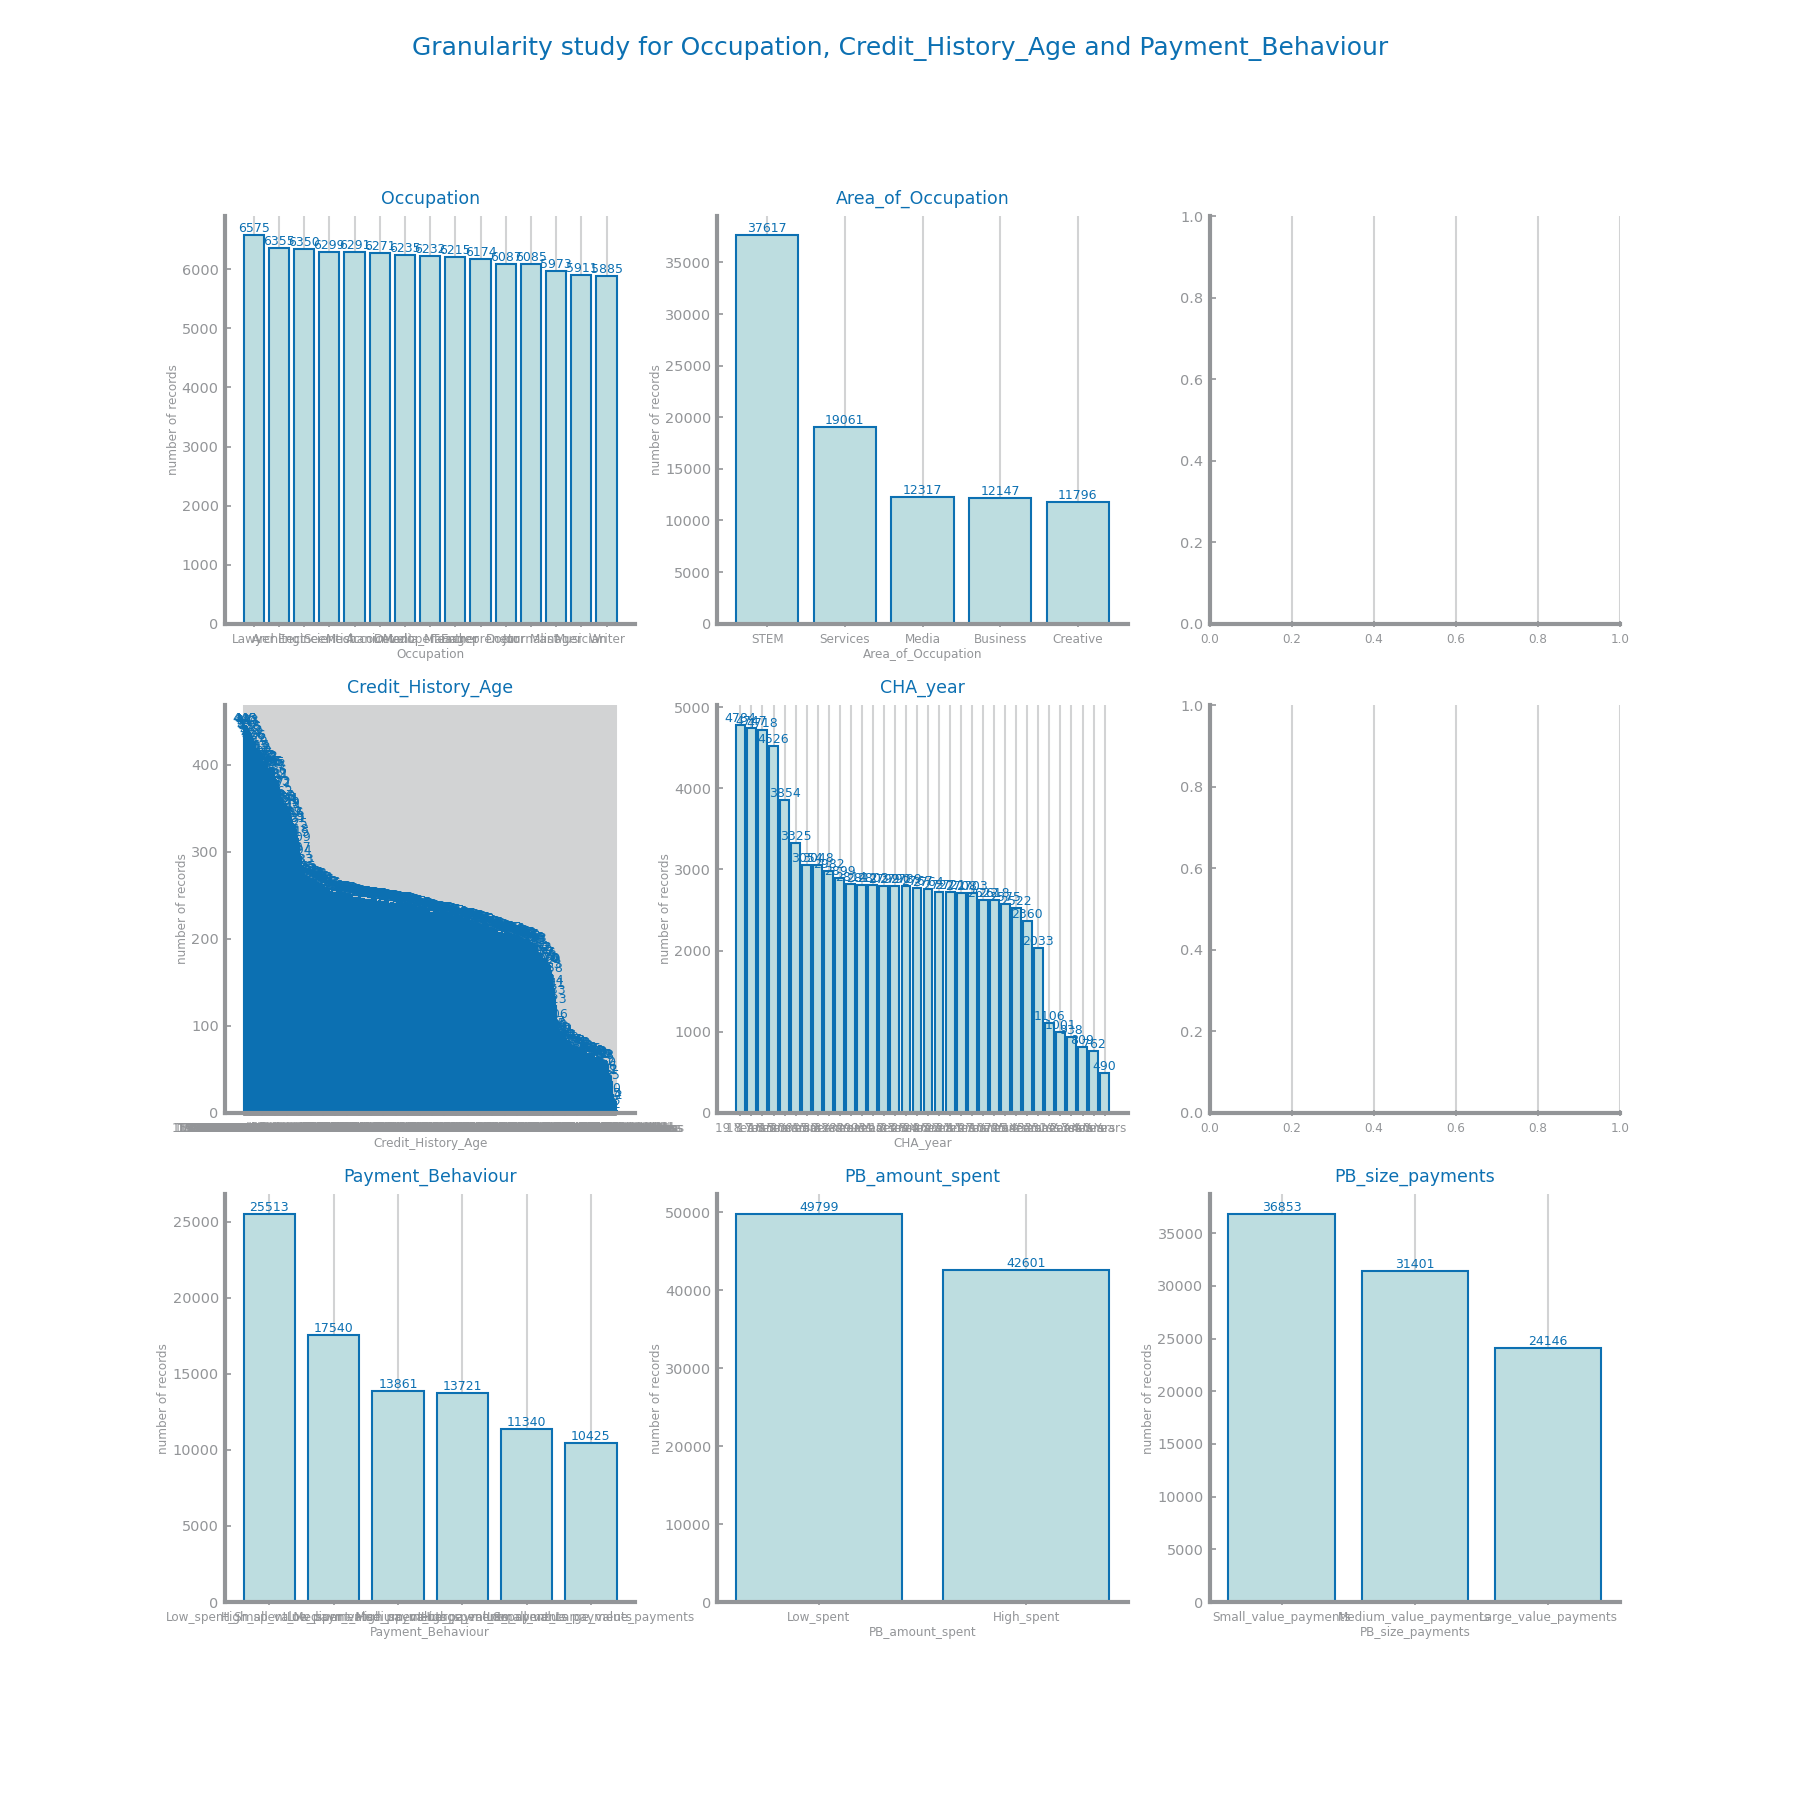
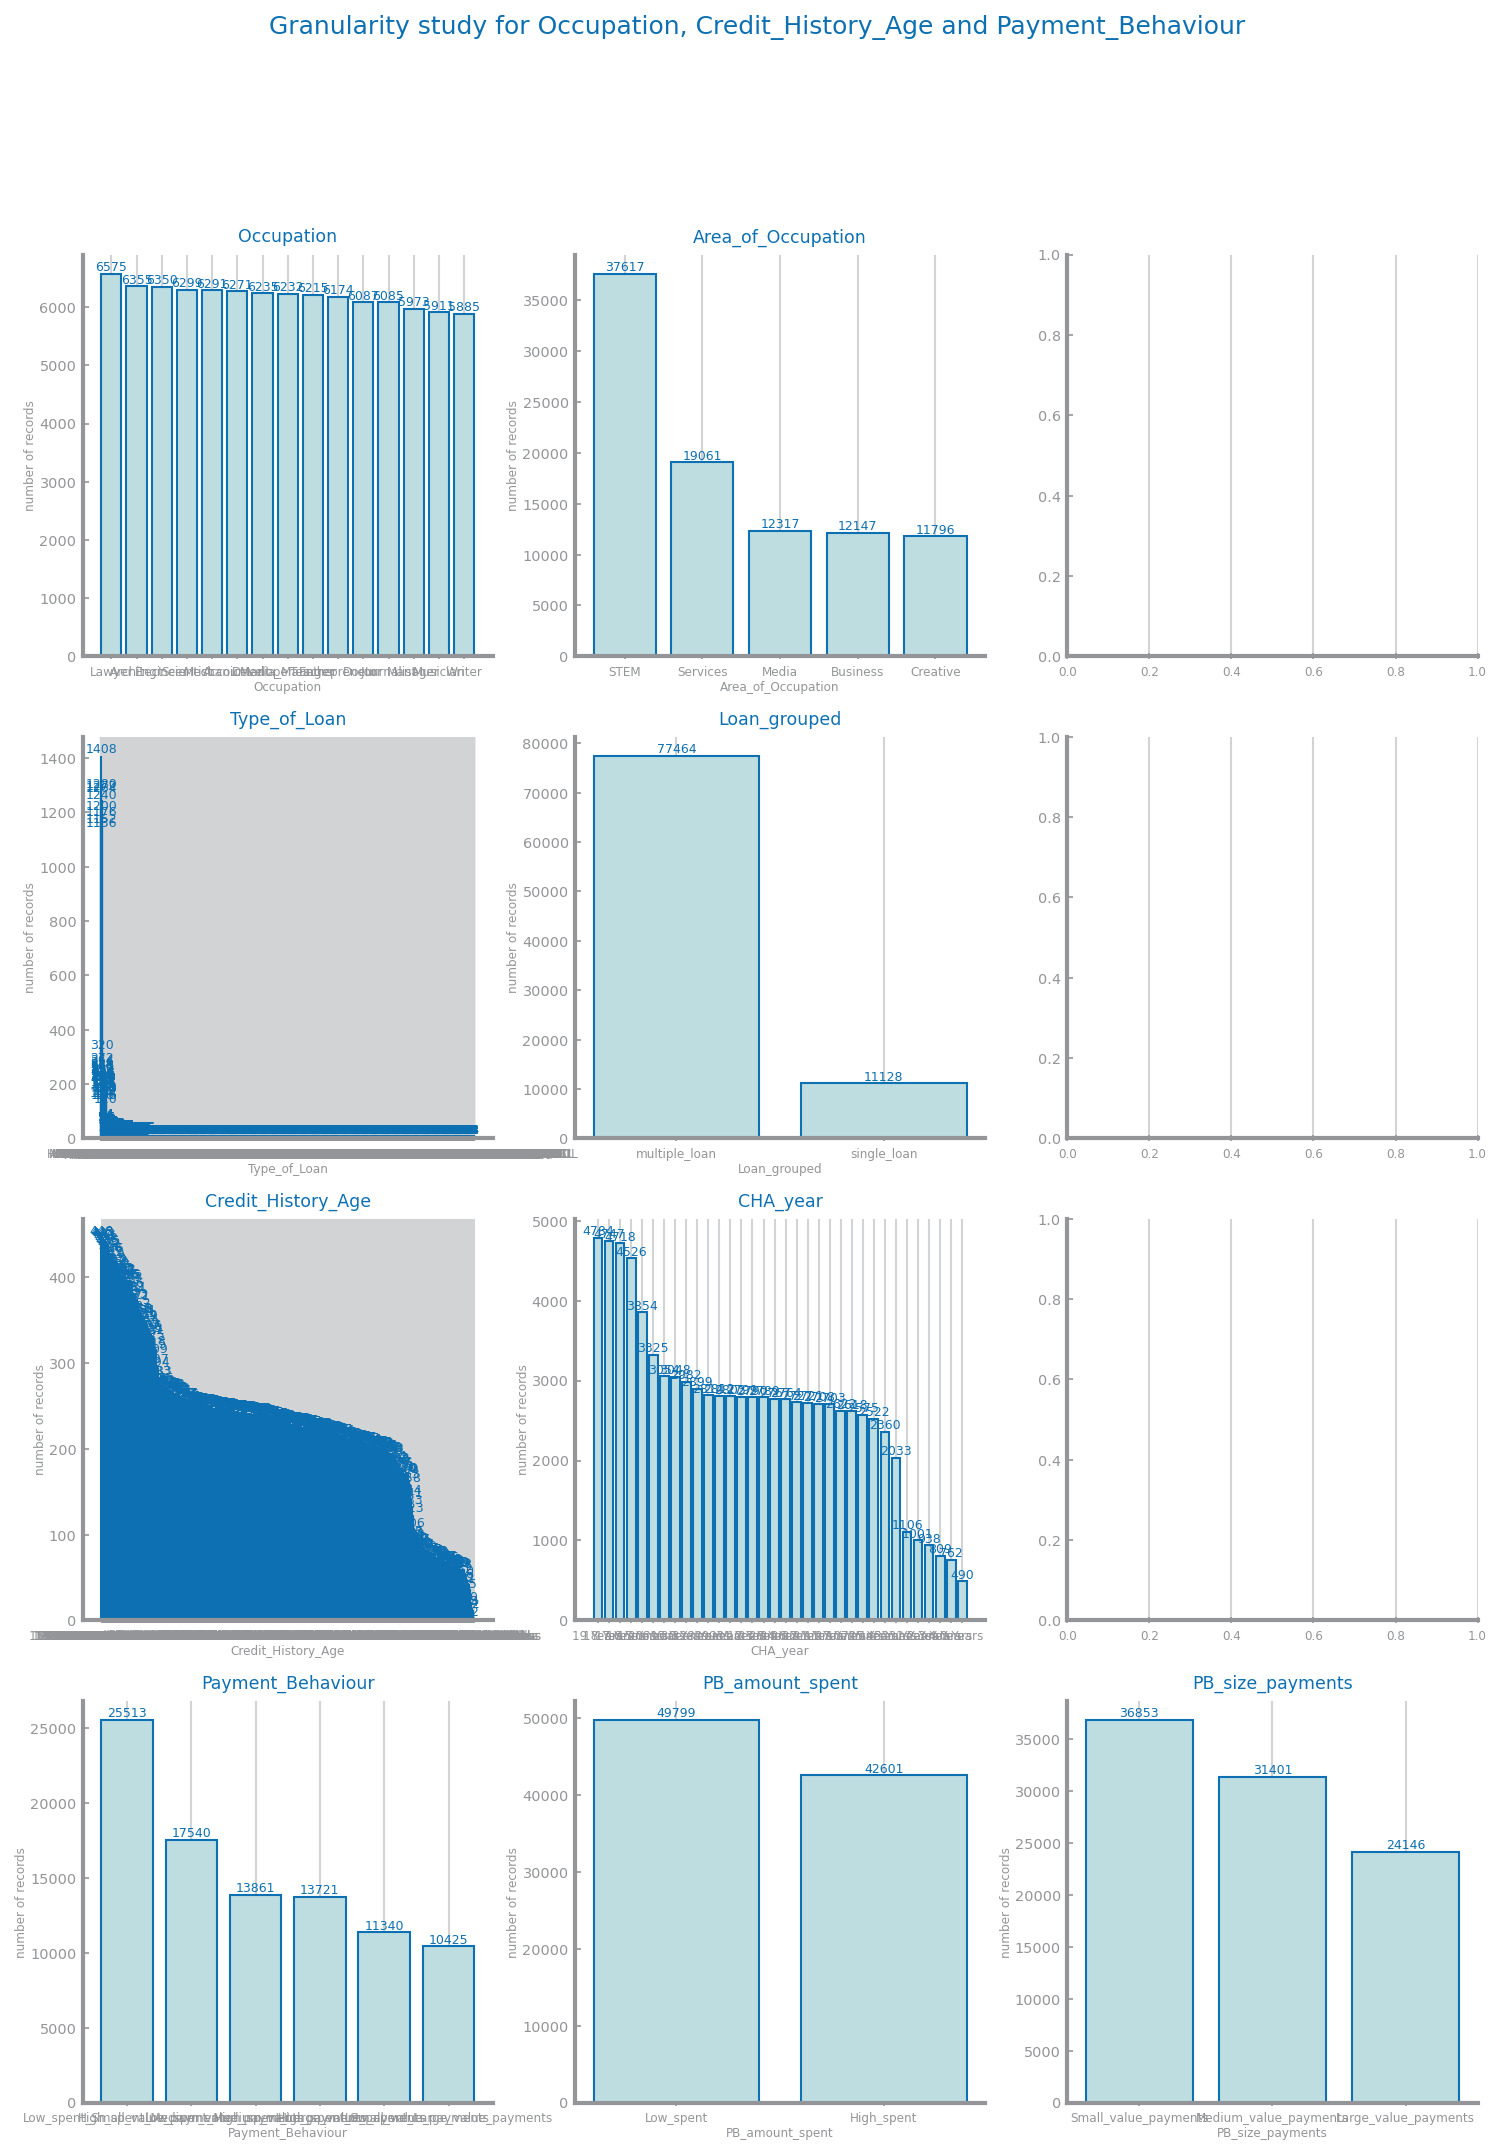
feat: add histograms for num vars and hists for symb vars. add more to granularity

diff --git a/dataset2/lab1.py b/dataset2/lab1.py
@@ -146,6 +146,8 @@ from dslabs_functions import plot_bar_chart, HEIGHT, get_variable_types, define_
 def analyse_property_granularity(data: DataFrame, axs: ndarray, j: int, vars: list[str]) -> ndarray:
     for i in range(len(vars)):
         counts: Series[int] = data[vars[i]].value_counts()
+        if vars[i] == "Type_of_Loan":
+                counts.index = list(map(abreviate_type_of_loan, counts.index.to_list()))
         plot_bar_chart(
             counts.index.to_list(),
             counts.to_list(),
@@ -160,7 +162,7 @@ def analyse_property_granularity(data: DataFrame, axs: ndarray, j: int, vars: li
 def get_symbolic_nonBinary_variables(data: DataFrame) -> list:
     symbolic: list = get_variable_types(data)["symbolic"]
     remove_list: list = (["ID", "Customer_ID", "Name", "SSN", "Age"] + 
-                         ["Month", "CreditMix", "Payment_of_Min_Amount", "Type_of_Loan"])
+                         ["Month", "CreditMix", "Payment_of_Min_Amount"])
     res = []
     for el in symbolic:
         if el not in remove_list:
@@ -207,23 +209,27 @@ def pb_size_payments_gran_data(pb: str) -> str:
     else:
         return nan
     
-#def type_of_loan_gran_data(data: DataFrame):
-#    res = []
-#    for entry in data["Type_of_Loan"].values:
-#        lst = entry.split(", ")
-#        for el in lst:
+def type_of_loan_gran_data(tl: str) -> str:
+    if type(tl) == str:
+        if "," in tl:
+            return "multiple_loan"
+        else:
+            return "single_loan"
+    else:
+        return nan
             
 
 def symbolic_variables_granularity(data: DataFrame, file_tag: str):
+    variables = get_symbolic_nonBinary_variables(data)
     cols: int = 3
-    rows: int = 3
+    rows: int = len(variables)
     fig: Figure
     axs: ndarray
     fig, axs = subplots(rows, cols, figsize=(cols * HEIGHT, rows * HEIGHT), squeeze=False)
     fig.suptitle(f"Granularity study for Occupation, Credit_History_Age and Payment_Behaviour")
     varia: list[str]
     i: int = 0
-    for var in get_symbolic_nonBinary_variables(data):
+    for var in variables:
         match var:
             case "Occupation":
                 data["Area_of_Occupation"] = list(map(occupation_gran_data, data["Occupation"].values))
@@ -235,9 +241,9 @@ def symbolic_variables_granularity(data: DataFrame, file_tag: str):
                 data["PB_amount_spent"] = list(map(pb_amount_spent_gran_data, data["Payment_Behaviour"].values))
                 data["PB_size_payments"] = list(map(pb_size_payments_gran_data, data["Payment_Behaviour"].values))
                 varia = ["Payment_Behaviour", "PB_amount_spent", "PB_size_payments"]
-            #case "Type_of_Loan":
-            #    type_of_loan_gran_data(data)
-            #    varia = ["Type_of_Loan", "Loan_individual"]
+            case "Type_of_Loan":
+                data["Loan_grouped"] = list(map(type_of_loan_gran_data, data["Type_of_Loan"].values))
+                varia = ["Type_of_Loan", "Loan_grouped"]
         analyse_property_granularity(data, axs, i, varia)
         i += 1
     # MAYBE CLEANUP ????? 
@@ -250,6 +256,12 @@ def symbolic_variables_granularity(data: DataFrame, file_tag: str):
 #*                                   EX 3
 #*                               Distribution                                      *
 #***********************************************************************************
+
+from dslabs_functions import set_chart_labels, plot_multiline_chart
+from matplotlib.pyplot import xticks
+from numpy import log
+from scipy.stats import norm, expon, lognorm
+from matplotlib.axes import Axes
 
 #****************************  3.1-Global boxplot  *********************************
 
@@ -377,13 +389,126 @@ def outliers(data: DataFrame, file_tag: str):
 #***********************************************************************************
 
 #**************************  3.4-Histograms for numeric  ***************************
+
+def histograms_numeric_vars(data: DataFrame, file_tag: str):
+    variables_types: dict[str, list] = get_variable_types(data)
+    numeric: list[str] = variables_types["numeric"]
+
+    if [] != numeric:
+        rows: int
+        cols: int
+        rows, cols = define_grid(len(numeric))
+        fig, axs = subplots(
+            rows, cols, figsize=(cols * HEIGHT, rows * HEIGHT), squeeze=False
+        )
+        i: int
+        j: int
+        i, j = 0, 0
+        for n in range(len(numeric)):
+            set_chart_labels(
+                axs[i, j],
+                title=f"Histogram for {numeric[n]}",
+                xlabel=numeric[n],
+                ylabel="nr records",
+            )
+            axs[i, j].hist(data[numeric[n]].dropna().values, 60)
+            i, j = (i + 1, 0) if (n + 1) % cols == 0 else (i, j + 1)
+        savefig(f"images/{file_tag}_single_histograms_numeric.png")
+        show()
+    else:
+        print("There are no numeric variables.")
+
 #***********************************************************************************
 
 #************************  3.5-Distributions for numeric  **************************
+
+def compute_known_distributions(x_values: list) -> dict:
+    distributions = dict()
+    # Gaussian
+    mean, sigma = norm.fit(x_values)
+    distributions["Normal(%.1f,%.2f)" % (mean, sigma)] = norm.pdf(x_values, mean, sigma)
+    # Exponential
+    loc, scale = expon.fit(x_values)
+    distributions["Exp(%.2f)" % (1 / scale)] = expon.pdf(x_values, loc, scale)
+    # LogNorm
+    sigma, loc, scale = lognorm.fit(x_values)
+    distributions["LogNor(%.1f,%.2f)" % (log(scale), sigma)] = lognorm.pdf(
+        x_values, sigma, loc, scale
+    )
+    return distributions
+
+
+def histogram_with_distributions(ax: Axes, series: Series, var: str):
+    values: list = series.sort_values().to_list()
+    ax.hist(values, 20, density=True)
+    distributions: dict = compute_known_distributions(values)
+    plot_multiline_chart(
+        values,
+        distributions,
+        ax=ax,
+        title="Best fit for %s" % var,
+        xlabel=var,
+        ylabel="",
+    )
+
+
+def distributions_numeric_vars(data: DataFrame, file_tag: str):
+    variables_types: dict[str, list] = get_variable_types(data)
+    numeric: list[str] = variables_types["numeric"]
+    if [] != numeric:
+        rows, cols = define_grid(len(numeric))
+        fig, axs = subplots(
+            rows, cols, figsize=(cols * HEIGHT, rows * HEIGHT), squeeze=False
+        )
+        i, j = 0, 0
+        for n in range(len(numeric)):
+            histogram_with_distributions(axs[i, j], data[numeric[n]].dropna(), numeric[n])
+            i, j = (i + 1, 0) if (n + 1) % cols == 0 else (i, j + 1)
+        savefig(f"images/{file_tag}_numeric_distribution.png")
+        show()
+    else:
+        print("There are no numeric variables.")
+
 #***********************************************************************************
 
-
 #*************************  3.6-Histograms for symbolic  ***************************
+
+def abreviate_type_of_loan(tl: str) -> str:
+    res = ""
+    for letter in tl:
+        if letter.isupper() or letter == ",":
+            res += letter
+    return res
+
+def histograms_symbolic_vars(data: DataFrame, file_tag: str):
+    variables_types: dict[str, list] = get_variable_types(data)
+    symbolic: list[str] = variables_types["symbolic"] + variables_types["binary"]
+    if [] != symbolic:
+        rows, cols = define_grid(len(symbolic))
+        fig, axs = subplots(
+            rows, cols, figsize=(cols * HEIGHT*1.5, rows * HEIGHT*1.5), squeeze=False
+        )
+        i, j = 0, 0
+        for n in range(len(symbolic)):
+            counts: Series = data[symbolic[n]].value_counts()
+            if symbolic[n] == "Type_of_Loan":
+                counts.index = list(map(abreviate_type_of_loan, counts.index.to_list()))
+            plot_bar_chart(
+                counts.index.to_list(),
+                counts.to_list(),
+                ax=axs[i, j],
+                title="Histogram for %s" % symbolic[n],
+                xlabel=symbolic[n],
+                ylabel="nr records",
+                percentage=False,
+            )
+            
+            i, j = (i + 1, 0) if (n + 1) % cols == 0 else (i, j + 1)
+        savefig(f"images/{file_tag}_histograms_symbolic.png")
+        show()
+    else:
+        print("There are no symbolic variables.")
+
 #***********************************************************************************
 
 #***************************  3.7-Class distribution  ******************************
@@ -424,6 +549,9 @@ if __name__ == "__main__":
     #boxplots_individual_num_vars(data, file_tag)
     #outliers(data, file_tag)
     #class_distribution(data, file_tag, target)
+    #histograms_numeric_vars(data, file_tag)
+    distributions_numeric_vars(data, file_tag)
+    #histograms_symbolic_vars(data, file_tag)
     
     #print(get_symbolic_nonBinary_variables(data))
     #print(data['Type_of_Loan'].unique())
